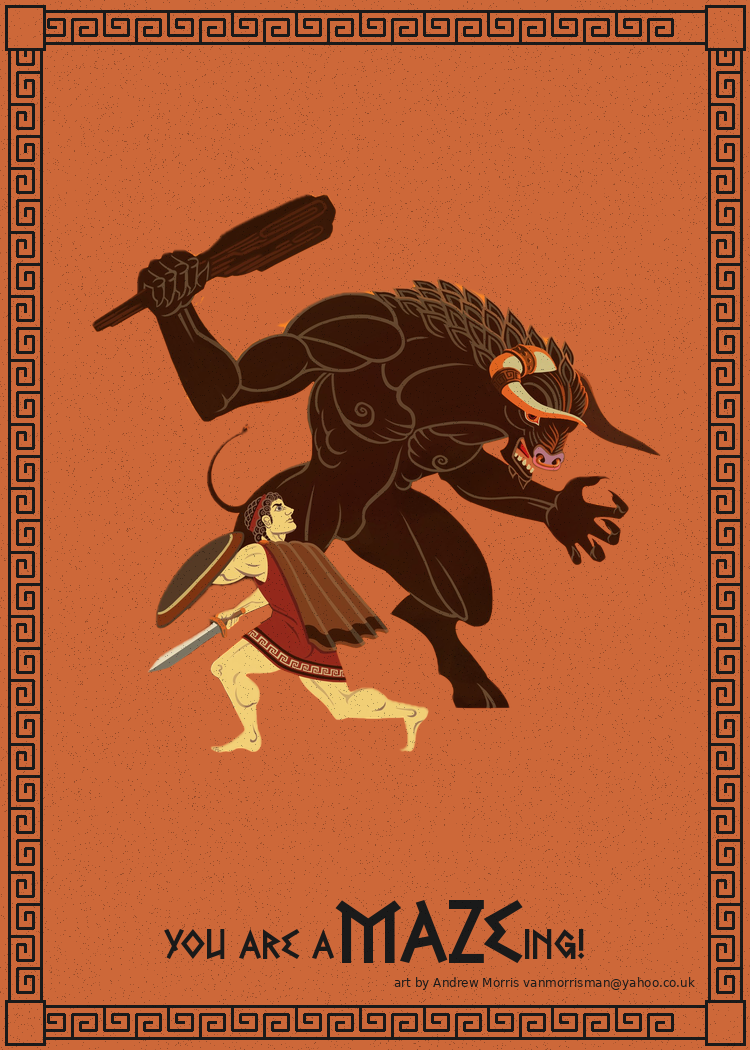
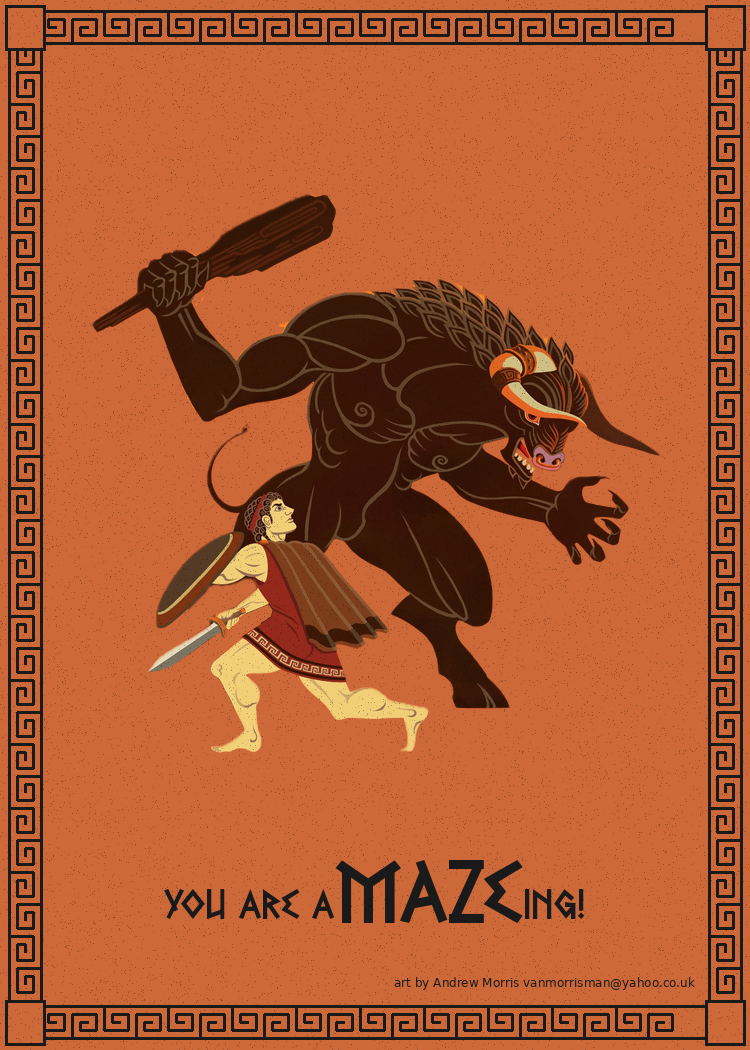
Move Valentine text up to fill space

Changed region(s): [[0.2147, 0.7924, 0.7973, 0.9448]]

diff --git a/src/greek_design_system.py b/src/greek_design_system.py
@@ -508,7 +508,7 @@ def generate_greek_card_front(
 
     # Center the whole thing horizontally
     start_x = (width - total_width) // 2
-    text_y = height - 155  # Base position
+    text_y = height - 195  # Move up to fill space between image and bottom
 
     # Draw each part, aligning baselines
     baseline_offset = h2 - h1  # Offset to align smaller text with bigger text baseline
